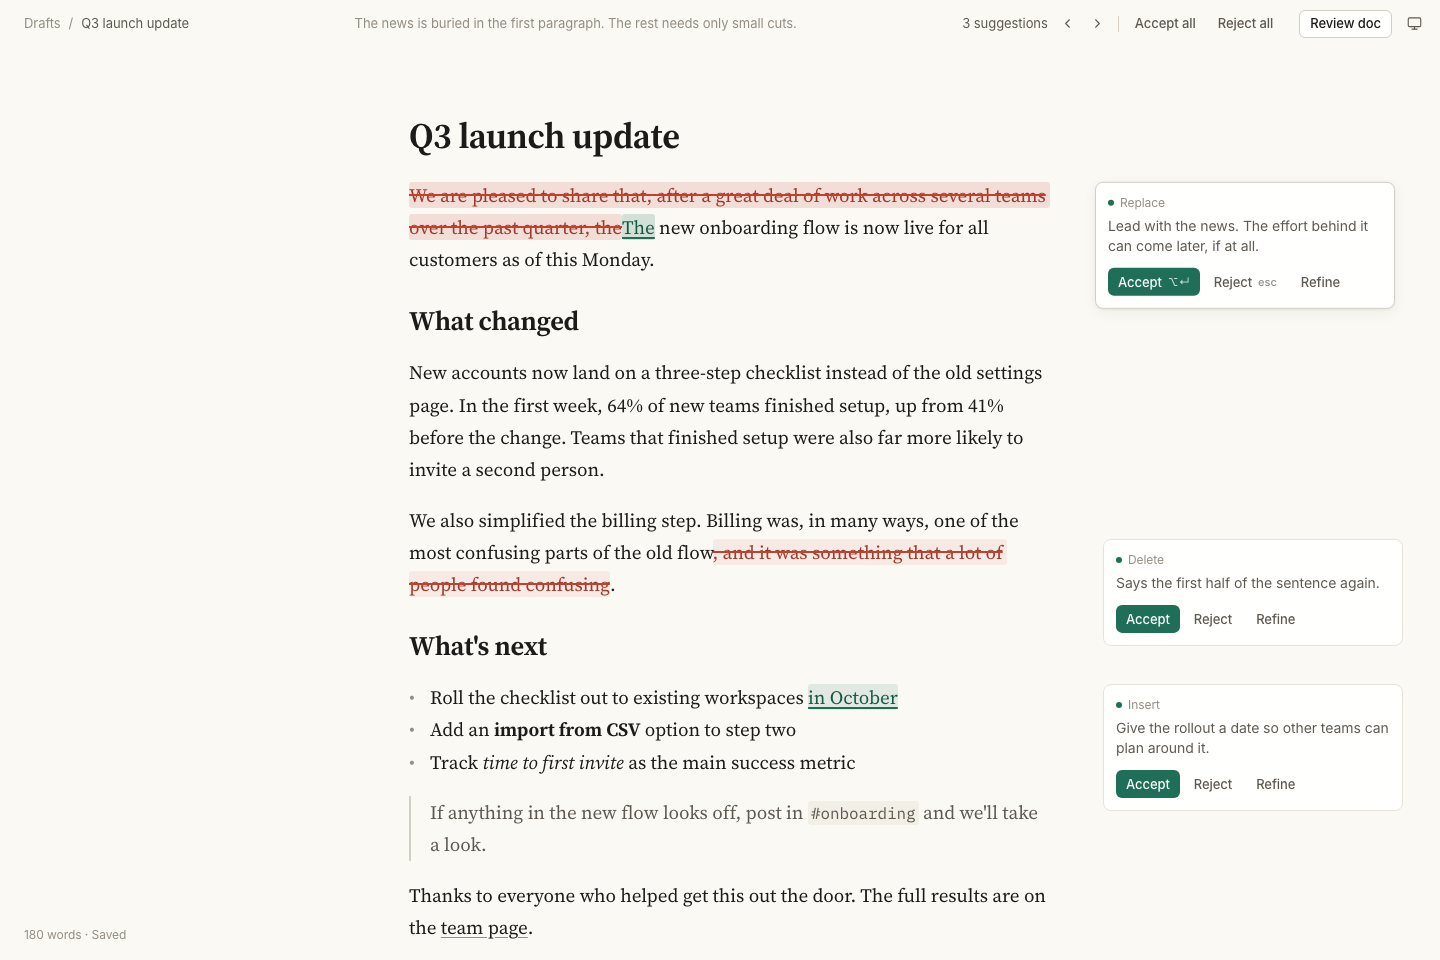
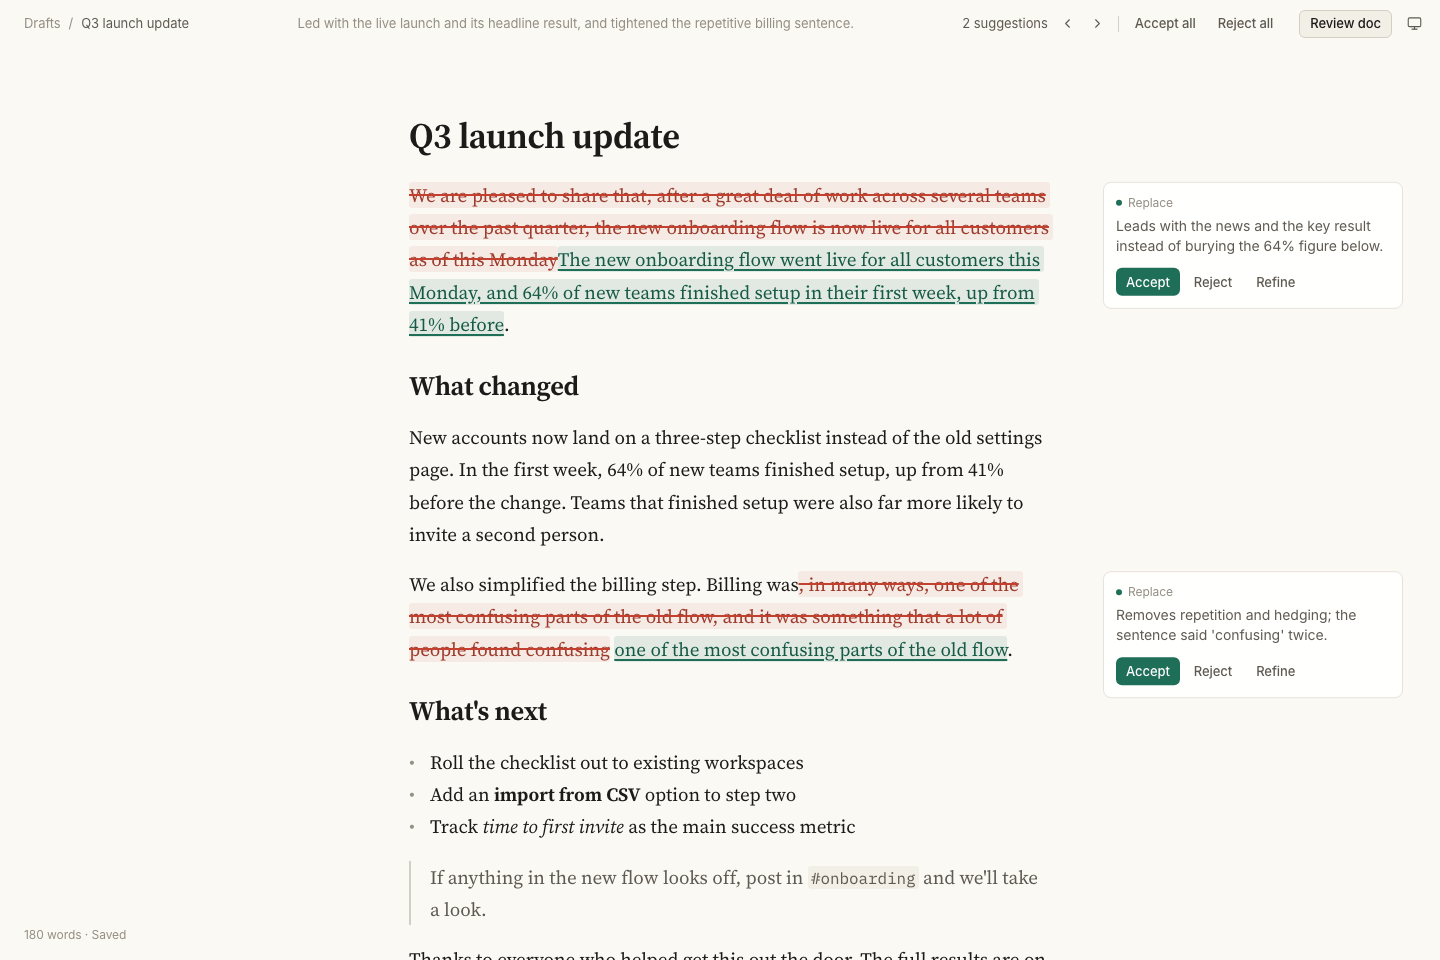
README, session export script
- README: setup (npm ci, .env, Playwright browser), what it does with a
  real-output screenshot, how anchoring/mapping/models/eval work, what was
  left out and why, how AI was used, cost so far, what's next
- scripts/export-sessions.mjs (npm run sessions:export): copies this
  project's session jsonl and subagent logs into ai-sessions/, masks
  OpenRouter keys (pattern + the exact key from .env), re-scans the copies
  and exits 1 if anything key-like is left; unit-tested on fake data, not
  run on the live session

diff --git a/tests/unit/exportSessions.test.ts b/tests/unit/exportSessions.test.ts
@@ -1,0 +1,38 @@
+import { describe, expect, it } from "vitest";
+// @ts-expect-error plain .mjs script, no type declarations
+import { findSecrets, MASK, maskSecrets, projectSlug } from "../../scripts/export-sessions.mjs";
+
+const FAKE = ["sk", "or", "v1", "0123456789abcdefABCDEF0123456789abcdef"].join("-"); // built at runtime, never a literal key
+
+describe("session export masking", () => {
+  it("masks key-shaped strings inside JSON lines and keeps every line valid JSON", () => {
+    const line = JSON.stringify({ message: { content: `Authorization: Bearer ${FAKE} in a tool result` } });
+    const { text, count } = maskSecrets(`${line}\n${line}`);
+    expect(count).toBe(2);
+    expect(text).not.toContain(FAKE);
+    expect(text).toContain(MASK);
+    for (const l of text.split("\n")) expect(() => JSON.parse(l)).not.toThrow();
+  });
+
+  it("masks the exact known key even when it doesn't look like sk-or-", () => {
+    const odd = "custom-gateway-token-1234567890";
+    const { text } = maskSecrets(`key=${odd}`, [odd]);
+    expect(text).toBe(`key=${MASK}`);
+    expect(findSecrets(text, [odd])).toEqual([]);
+  });
+
+  it("leaves prose about the key format alone", () => {
+    const prose = "grep for `sk-or-` and mask any match";
+    expect(maskSecrets(prose).count).toBe(0);
+  });
+
+  it("finds leftovers by line number, and finds none after masking", () => {
+    const text = `ok\nleak ${FAKE}\nok`;
+    expect(findSecrets(text)).toEqual([2]);
+    expect(findSecrets(maskSecrets(text).text)).toEqual([]);
+  });
+
+  it("derives the project folder name the way Claude Code does", () => {
+    expect(projectSlug("/Users/a.b/Developer/chiri-editor")).toBe("-Users-a-b-Developer-chiri-editor");
+  });
+});

diff --git a/README.md b/README.md
@@ -1,0 +1,90 @@
+# Draft: a Markdown editor with an AI co-author
+
+![Review doc on the sample document: real Sonnet 5.5 output](docs/screenshot-light.png)
+
+*Review doc on the sample document. This is real model output: two suggestions, shown inline (red struck = removed, green underlined = added), each with its reason in the margin. The document doesn't change until you accept. [Dark mode](docs/screenshot-dark.png).*
+
+## Run it
+
+Needs Node 20.12+ and an OpenRouter key.
+
+```sh
+npm ci
+cp .env.example .env        # then put your key in OPENROUTER_API_KEY
+npm run dev                 # http://localhost:3000
+```
+
+The two model variables in `.env.example` are optional; the defaults are the models described below.
+
+Checks:
+
+```sh
+npm test                           # unit + API tests, OpenRouter mocked
+npx playwright install chromium    # once, for the browser tests
+npm run test:e2e                   # browser tests, API intercepted, nothing billed
+npm run build
+```
+
+`npm run eval -- --dry-run` runs the model eval against a fake model (free). Without `--dry-run` it calls real models and costs money.
+
+## What it does
+
+- **Write Markdown** in a document-style editor. Markdown marks (`#`, `**`, `-`, `>`, backticks, link URLs) are hidden except on the line you're editing. The text underneath is always plain Markdown.
+- **Review doc** (top right) reads the whole document and suggests up to five small edits, or none if the text is fine.
+- **⌘K** asks about the paragraph under the cursor, or the selection: type an instruction or pick a preset (Tighten, Fix grammar, More formal, More casual, Clarify).
+- **Each suggestion** has Accept, Reject and Refine. Refine takes a follow-up ("shorter", "more formal") and remembers earlier rounds.
+- **Keep typing while it thinks.** Answers land on the right text even after you've edited above or around it.
+- **Keys:** ⌥↵ accepts and Esc rejects when the cursor is inside a suggestion. ⌘Z undoes an accept. Tab still indents.
+- The document is saved to your browser (localStorage). The first visit loads a sample document.
+
+## How it works
+
+**Anchoring.** The model never returns the whole document. It returns up to five `{quote, replacement, reason}` edits. The server looks for each quote by exact match. If a quote occurs zero times, or more than once, that edit is dropped and counted ("1 suggestion couldn't be placed"), never guessed. The text the quote and replacement share at the start and end is trimmed off, at word boundaries, so a one-word fix shows as a one-word diff. Offsets are UTF-16, as in JavaScript strings and CodeMirror. Code: `lib/server/locate.ts`.
+
+**Mapping while you type.** Every request remembers the document as it was sent and records every edit made after that. When the answer arrives, each suggestion is moved through those edits (CodeMirror's `ChangeSet.mapPos`). Then it's re-checked: the text at the new position must still equal the quote, or the suggestion is dropped. Suggestions already on screen follow your edits the same way, and disappear if you edit inside them. Code: `lib/editor/mapping.ts`, `lib/editor/place.ts`, `components/Workspace.tsx`.
+
+**Two models.**
+- Review doc uses Claude Sonnet 5.5, with reasoning set to `low`, the lowest it accepts. Reviewing a whole document needs judgment: in the eval, Sonnet was the only model that fixed a buried lede with small edits.
+- ⌘K and refine use Claude Haiku 5.5, with reasoning off. Those are small, scoped edits, where Haiku was as good and about 1 s faster.
+
+Both are set in `lib/server/models.ts` and can be overridden with `OPENROUTER_MODEL_REVIEW` / `OPENROUTER_MODEL_EDIT`. The API key is only read by the server route (`app/api/suggest/route.ts`), and it's redacted from any error passed back.
+
+**The eval.** `eval/` has three documents with real problems planted in them: a buried lede, a rambling paragraph, passive voice, typos and a vague claim. Each also has a paragraph that's already good, to catch over-editing. Checks are pass/fail, and `eval/reports/` keeps the side-by-side output for every model. All prompt text lives in one file, `lib/prompts.ts`.
+
+**Where to look first.** `SPEC.md` has the decisions and the test list. `DESIGN.md` has the visual system. `CLAUDE.md` has the commands and the non-obvious rules.
+
+## Left out on purpose
+
+- **Auth, a database, real-time collaboration, deployment.** The brief asks for none of them. One person and one document in localStorage is enough to show the editing loop.
+- **Fuzzy quote matching.** A suggestion in the wrong place is worse than a missing one, so unplaceable edits are dropped and reported.
+- **Streaming.** The answer is a short JSON list; a shimmer on the text being worked on covers the wait.
+- **A rendered preview pane.** Live preview (hidden marks) already makes the document read as a document.
+- **Rate limiting.** The app runs locally on your own key, and each request is capped: 40k characters in, a 1200-token answer out (plus 1024 reasoning tokens for Sonnet).
+- **Version history** beyond undo.
+
+## How I used AI to build it
+
+Built with Claude Code. The full sessions are in `ai-sessions/`, unedited except for masked keys.
+
+- **Spec first.** No code until `SPEC.md` was agreed: the decisions, the request/response contract, and the test list. The UI started from `DESIGN.md` and a static mock, which I checked from screenshots in both themes and at phone width before anything was wired up.
+- **The eval picked the models.** The first comparison showed Sonnet can't turn reasoning off. After changing two prompts (the note may only describe what the edits do; a buried lede means rewriting the opening), the second run showed what the split should be.
+- **Tests as the bar.** Every task ended with `npm test`, `npm run test:e2e` and `npm run build` green. I also deliberately broke the code to make sure the important tests can fail.
+- **A real run in the browser**, with a screenshot at every step, found bugs the tests didn't: refine rewriting a fragment into "In In the first week", and the cursor hidden under the top bar. Both are fixed.
+- **A fresh review.** A separate agent with no context read the code and found seven issues, including two ⌘K race conditions. Each fix began with a test that failed without it.
+- **Guardrails.** A Claude Code deny rule kept the agent from reading the key file, live API spend was capped per task, and every live run was rehearsed with mocks first.
+
+## What it cost
+
+$0.057 of the $5 key, read from OpenRouter's `/api/v1/key`:
+- two model-comparison runs: $0.002, then $0.030
+- browser walkthroughs and refine checks: $0.025
+
+Development and all tests run against mocks.
+
+## With more time
+
+- **Refine and neighbouring suggestions.** Refine widens its span to whole sentences, because rewriting trimmed fragments produced broken text. If another suggestion sits in that sentence and the rewrite reaches it, the new version is discarded (and the card says so). Better: tell the model which spans are off-limits, or merge the two suggestions.
+- **Word-level diffs inside a replacement**, so text kept in the middle of a rewrite isn't shown as deleted and re-added.
+- **Notes that match the edits.** Haiku's one-line notes sometimes describe more than its edits do. Generate the note from the edits that were placed, or check it against them.
+- **A bigger eval:** more documents, several runs per case, latency spread rather than one sample.
+- **Phone layout:** only the active suggestion's card shows under its paragraph. A bottom sheet would make moving between suggestions easier.

diff --git a/CLAUDE.md b/CLAUDE.md
@@ -12,6 +12,7 @@ Markdown editor with inline AI suggestions (Next.js + CodeMirror 6 + OpenRouter)
 
 - `npm run test:e2e`: Playwright, SPEC 7.4 (21–32). It starts its own dev server on port 3210 with an invalid key, and `/api/suggest` is intercepted in the browser.
 - `node scripts/live-walkthrough.mjs <url> [--mock]`: drives the real UI through review, accept, reject, refine ×2 and typing during ⌘K, with screenshots in `design/screenshots/live/`. **Without `--mock` it calls the real models (about 1¢), so ask first.**
+- `npm run sessions:export`: copies this project's latest Claude Code session and its subagent logs into `ai-sessions/`, masking OpenRouter keys; exits 1 if anything key-like is left. Run it after the session ends.
 - `npm run credit`: the key's remaining credit (GET /api/v1/key, not billed).
 - `npm run eval -- --dry-run [--models …]`: the eval against a fake model. Free and offline; reports go to `eval/reports/dry/` (git-ignored). Run this before any live eval.
 - `npm run eval -- [--models haiku,luna,sonnet] [--case name] [--max-usd 0.15]`: **real API calls, costs money.** Ask before running it. Every call's worst case is checked against `--max-usd` before it's sent.
